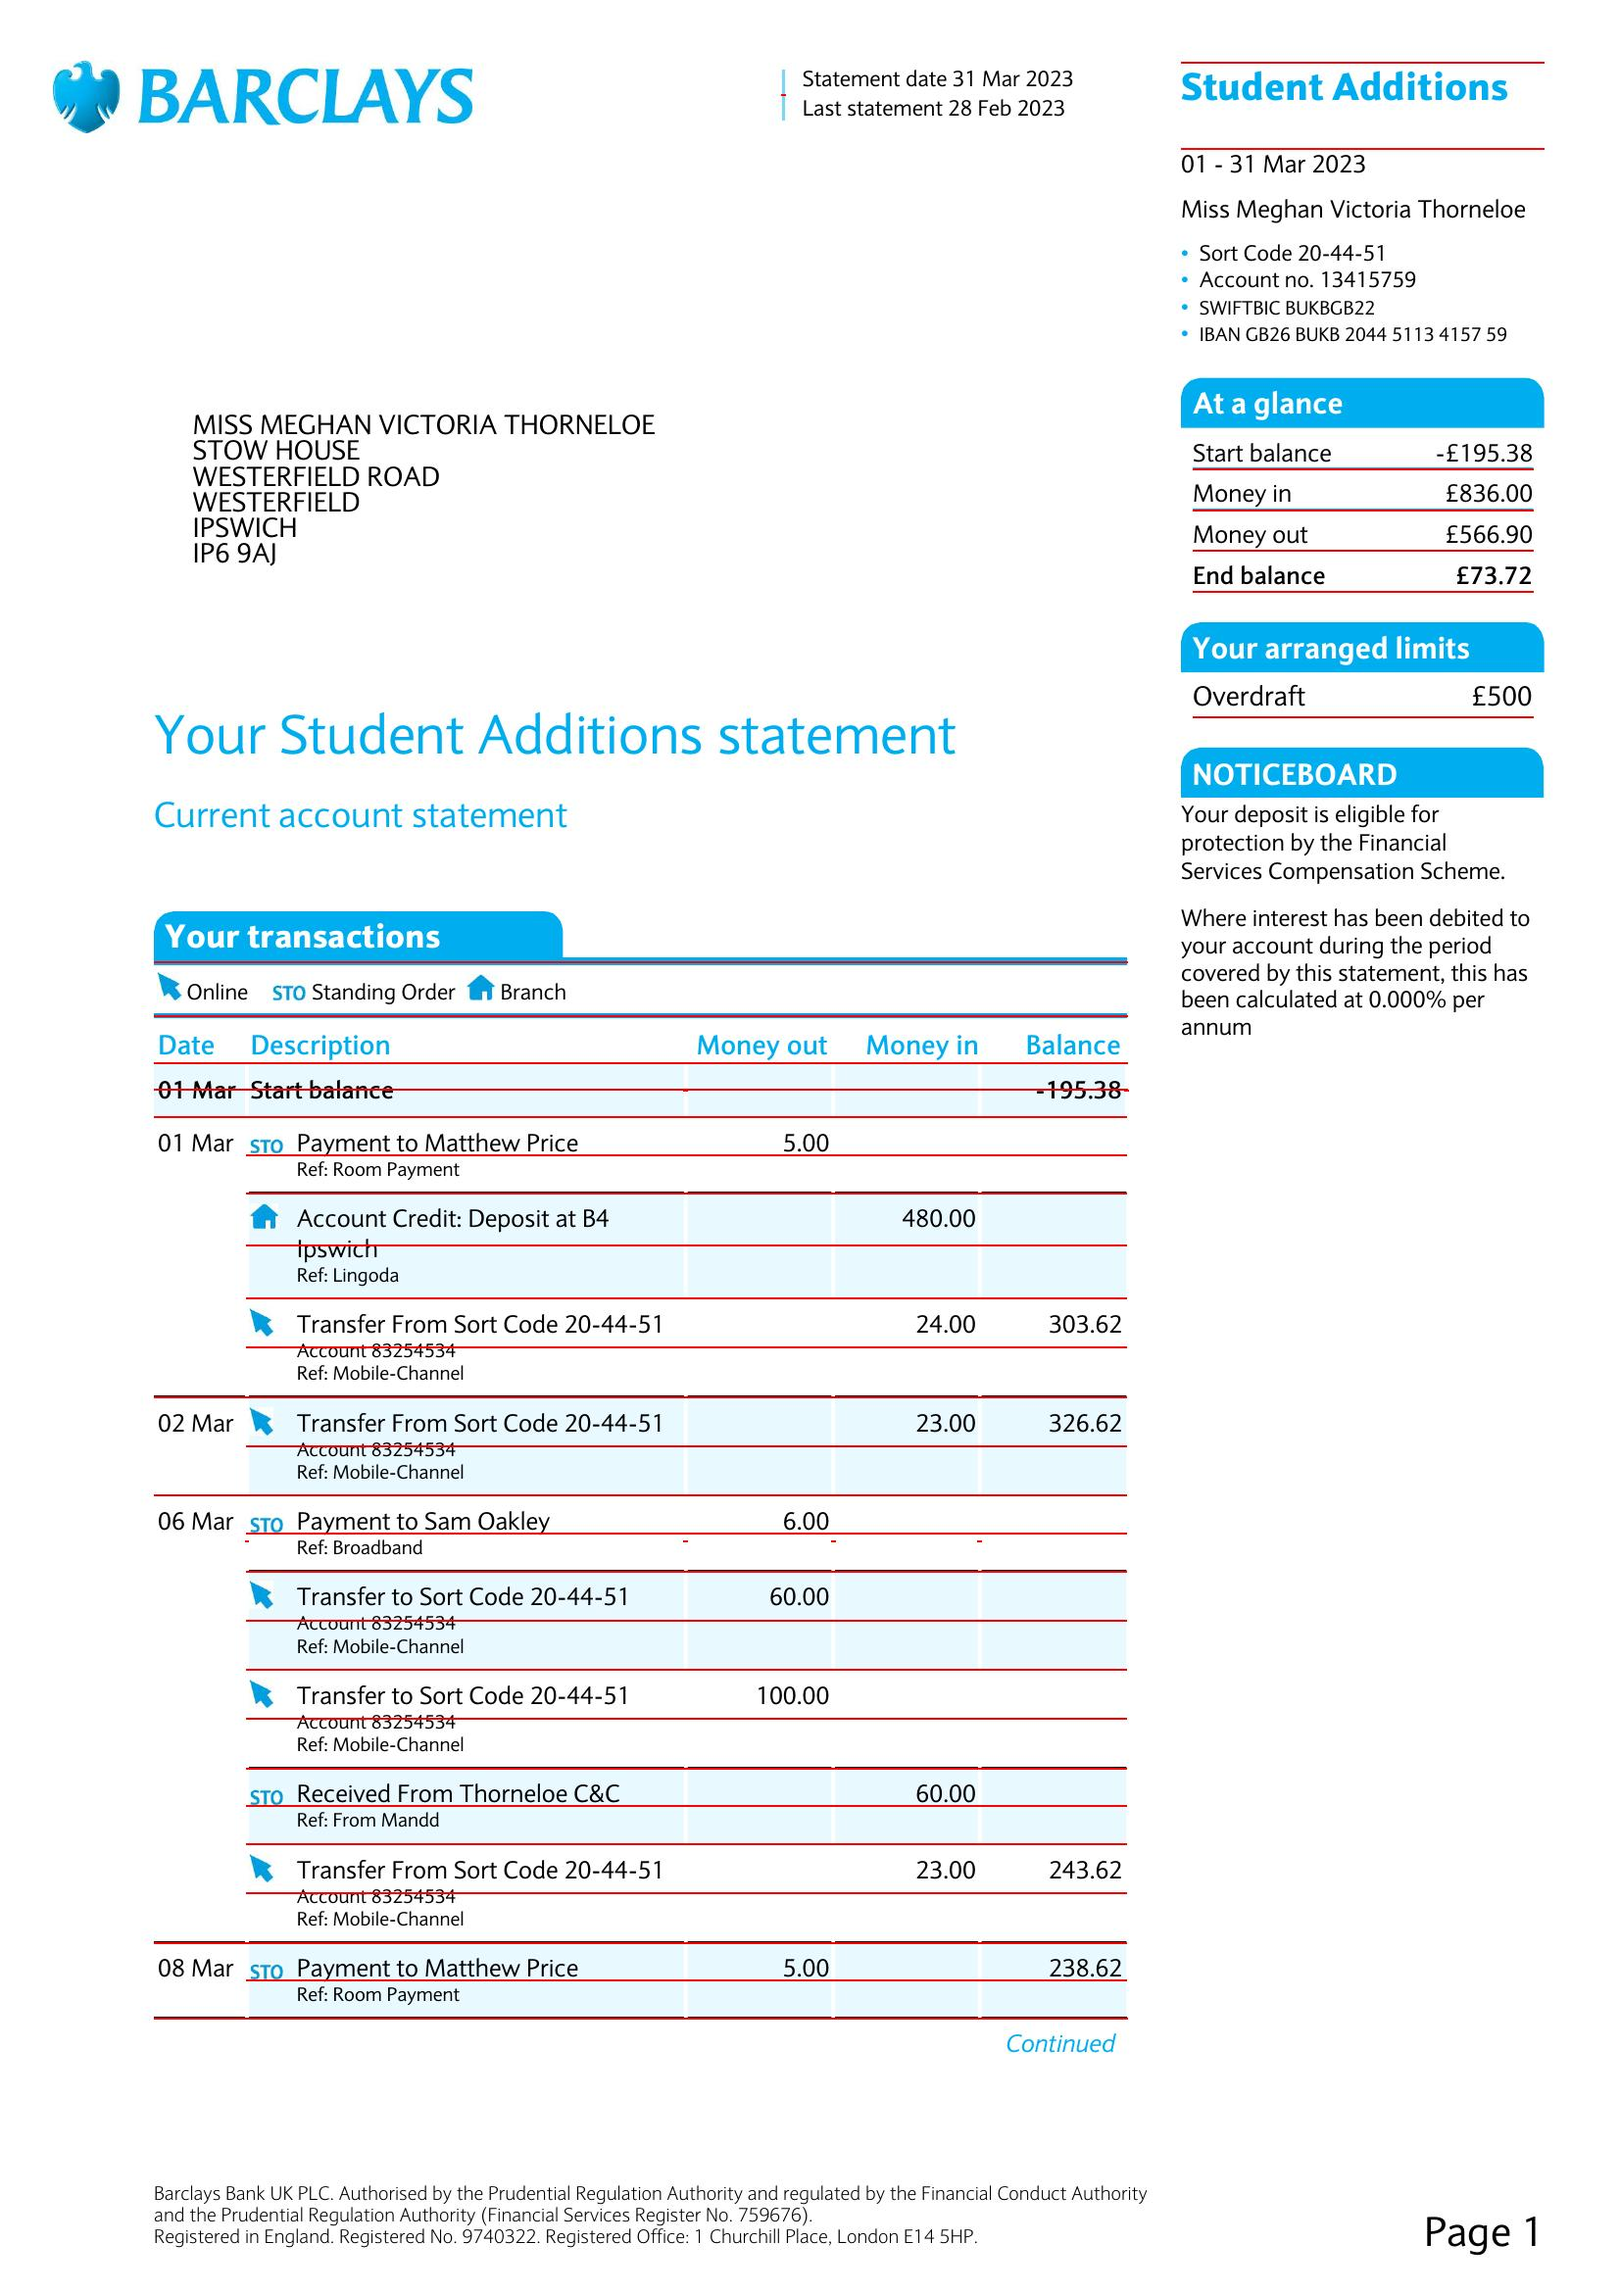
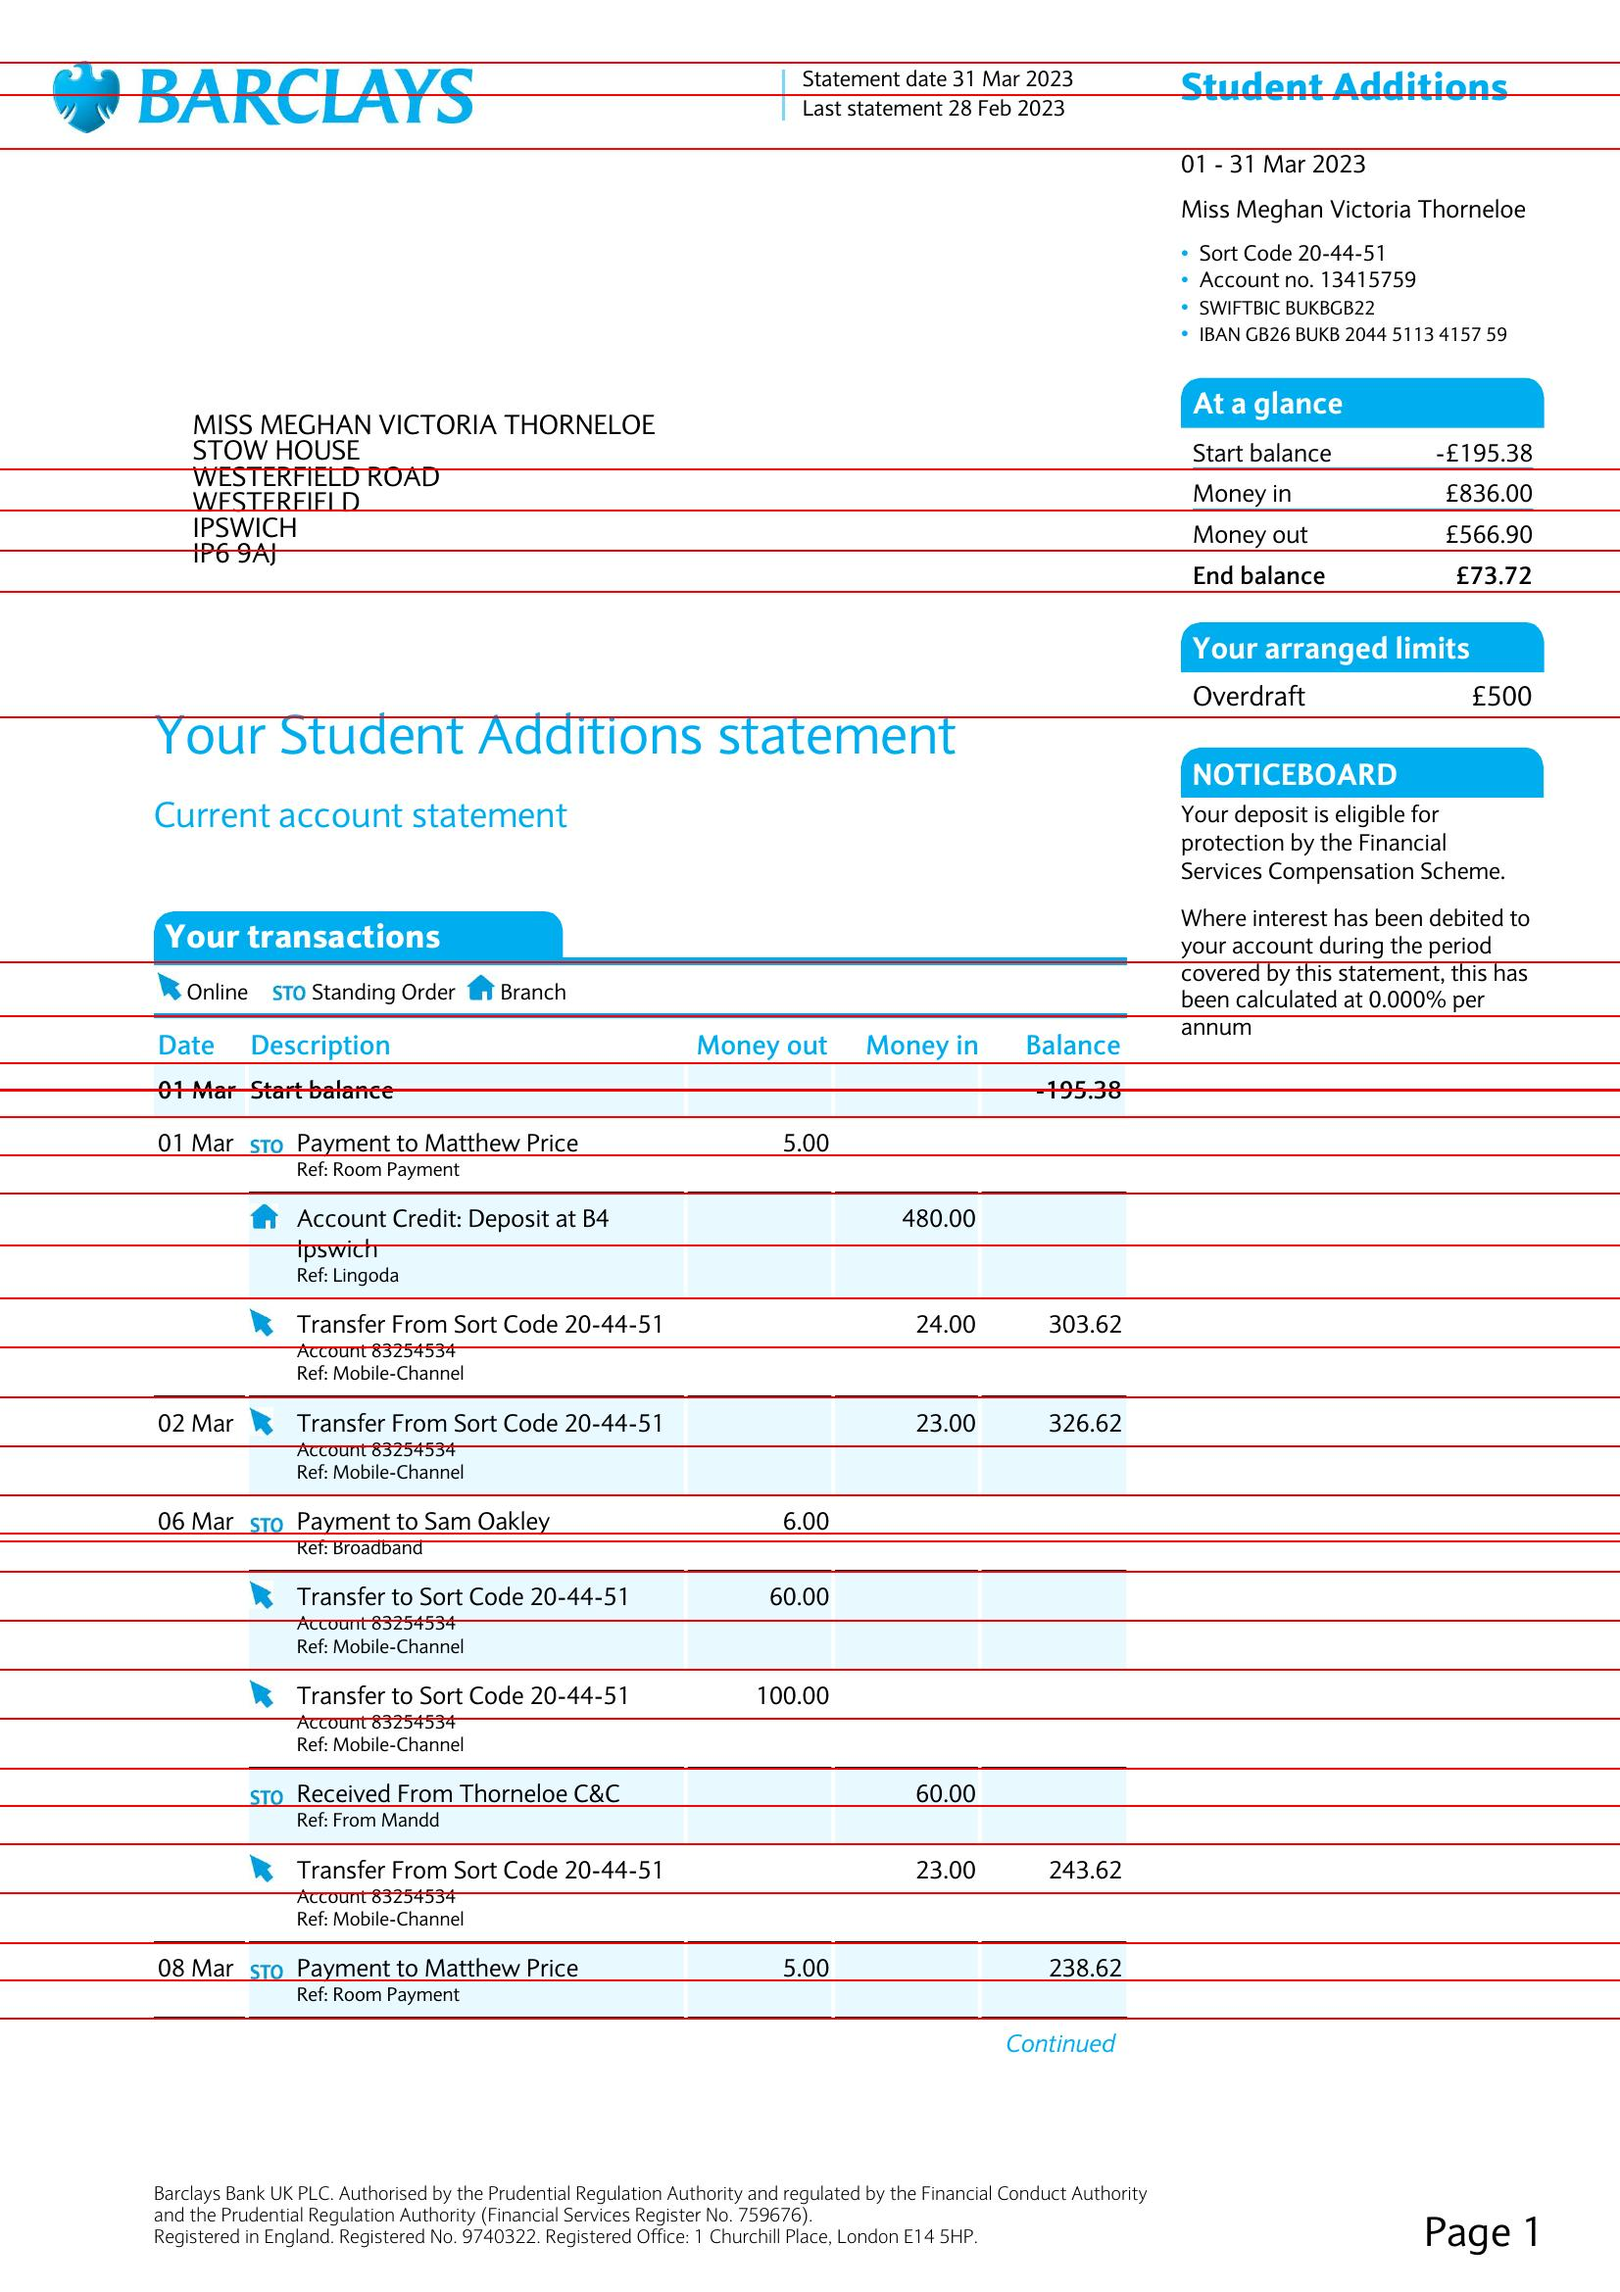
Checkpoint

diff --git a/src/pdf_utils.py b/src/pdf_utils.py
@@ -1,27 +1,17 @@
-import pdfplumber
+import json
 from PIL import ImageDraw
 from pdf2image import convert_from_path
 
 
-class PDFProcessor:
-    def __init__(self, pdf_path):
-        self.pdf_path = pdf_path
-        self.pdf_width = None
-        self.pdf_height = None
-        self.pdf_lines = None
+class ImageDrawer:
+    def __init__(self, image, pdf_width, pdf_height):
+        self.image = image
+        self.pdf_width = pdf_width
+        self.pdf_height = pdf_height
 
-    def extract_lines(self, page_number=1):
-        """Extract lines from PDF using pdfplumber."""
-        with pdfplumber.open(self.pdf_path) as pdf:
-            page = pdf.pages[page_number]
-            self.pdf_lines = page.lines
-            self.pdf_width = page.width
-            self.pdf_height = page.height
-            print(f"PDF dimensions: {self.pdf_width}x{self.pdf_height}")
-
-    def create_jpg_image(self):
+    def create_jpg_image(self, pdf_path):
         """Convert the PDF page to a JPG."""
-        images = convert_from_path(self.pdf_path)
+        images = convert_from_path(pdf_path)
         jpg_image_original = images[1]  # Get the second page
 
         # Get dimensions
@@ -32,66 +22,21 @@ class PDFProcessor:
         jpg_image_original.save("output.jpeg", "JPEG")
         return jpg_image_original
 
-
-class ImageDrawer:
-    def __init__(self, image, pdf_lines, pdf_width, pdf_height):
-        self.image = image
-        self.pdf_lines = pdf_lines
-        self.pdf_width = pdf_width
-        self.pdf_height = pdf_height
-
-    def draw_lines(self):
+    def draw_lines(self, pdf_lines_y_coordinates):
         """Draw the extracted PDF lines on the image."""
         image_copy = self.image.copy()
         draw = ImageDraw.Draw(image_copy)
 
         img_width, img_height = image_copy.size
-        scale_x = img_width / self.pdf_width
-        scale_y = img_height / self.pdf_height
 
-        for i, line in enumerate(self.pdf_lines, 1):
-            x0 = line["x0"] * scale_x
-            y0 = (self.pdf_height - line["y0"]) * scale_y  # Flip y-coordinate
-            x1 = line["x1"] * scale_x
-            y1 = (self.pdf_height - line["y1"]) * scale_y  # Flip y-coordinate
+        print(f"PDF lines: {pdf_lines_y_coordinates}")
 
-            # Verify coordinates are within bounds
-            assert 0 <= x0 <= img_width, f"Line {i}: x0 out of bounds"
-            assert 0 <= y0 <= img_height, f"Line {i}: y0 out of bounds"
-            assert 0 <= x1 <= img_width, f"Line {i}: x1 out of bounds"
-            assert 0 <= y1 <= img_height, f"Line {i}: y1 out of bounds"
+        for i, y_coordinate in enumerate(pdf_lines_y_coordinates, 1):
+            y = img_height - (y_coordinate * img_height)  # Flip y-coordinate
 
-            draw.line([(x0, y0), (x1, y1)], fill="red", width=2)
-            print(f"Drew line {i}: ({x0:.1f}, {y0:.1f}) to ({x1:.1f}, {y1:.1f})")
+            # Draw a line across the entire width of the image
+            draw.line([(0, y), (img_width, y)], fill="red", width=2)
+            print(f"Drew line {i} at y: {y:.1f}")
 
-        print(f"Successfully drew {len(self.pdf_lines)} lines")
+        print(f"Successfully drew {len(pdf_lines_y_coordinates)} lines")
         return image_copy
-
-
-def main():
-    pdf_path = "data/bank_statements/barclays/pdf/barclays March 2.pdf"
-    try:
-        pdf_processor = PDFProcessor(pdf_path)
-        print("Extracting lines from PDF...")
-        pdf_processor.extract_lines()
-
-        print("\nConverting PDF to JPG...")
-        jpg_image = pdf_processor.create_jpg_image()
-
-        print("\nDrawing lines...")
-        image_drawer = ImageDrawer(
-            jpg_image,
-            pdf_processor.pdf_lines,
-            pdf_processor.pdf_width,
-            pdf_processor.pdf_height,
-        )
-        modified_image = image_drawer.draw_lines()
-
-        modified_image.save("output_with_lines.jpeg", "JPEG")
-        modified_image.show()
-
-        print("\nProcess completed successfully!")
-        print("Check 'output_with_lines.jpeg' for the result")
-
-    except Exception as e:
-        print(f"Error: {str(e)}")
